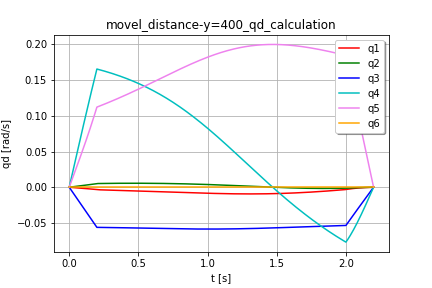
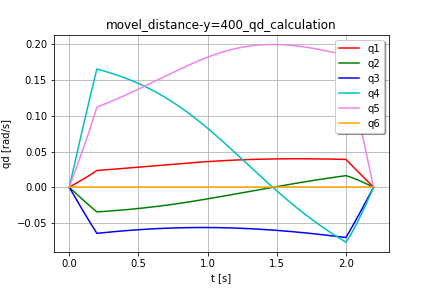
movel calculation q working, qd not

Changed region(s): [[0.1505, 0.5312, 0.8727, 0.8438]]

diff --git a/trajektorienplanung.py b/trajektorienplanung.py
@@ -328,208 +328,3 @@ def ik_pose(pose_t, dh_para, sol):
         i += 1
         
     return q_t
-
-#def ik_pose(pStart, pTarget, vmax, amax, delta_t, dh_para):
-#    
-#    [pose_t, pose_vt, pose_at, t] = traj_poseSample(pStart, pTarget, vmax, amax, delta_t)
-#    q_t = np.zeros((pose_t.shape))
-#
-#    sol = 6
-#    
-#    for t in range(pose_t.shape[0]):
-#        print(pose_t[t,:])
-#        q_t[t,:] = robo.ik_ur(dh_para, pose_t[t,:], sol)
-#        #print(q_t[t,:])
-#        
-#
-#        
-#    return q_t
-#    
-#def traj_PoseTimestamps(pStart, pTarget, vMax, aMax):
-#    
-#    #norm = sqrt(x^2 + y^2 + z^2)
-#    pDiff = math.sqrt((pStart[0] - pTarget[0])**2 + (pStart[1] - pTarget[1])**2 + (pStart[2] - pTarget[2])**2)
-#    pGrenz = (vMax * vMax) / aMax
-#    
-#    if pDiff <= pGrenz:
-#        #Dreieck: tS1 = tS2, tGes
-#        tGes = math.sqrt((4 * pDiff) / aMax)
-#        tS1 = tGes/2
-#        tS2 = tS1
-#		
-#    else:
-#        #Trapez: tS1, tS2, tGes
-#        tGes = (vMax / aMax) + (pDiff / vMax)
-#        tS1 = vMax / aMax
-#        tS2 = tGes - tS1
-#    
-#    return [tS1, tS2, tGes]
-#
-#    
-#def traj_samplePose(pStart, pTarget, vMax, aMax, tDelta):
-#    
-#    [tS1, tS2, tGes] =  traj_PoseTimestamps(pStart, pTarget, vMax, aMax)
-#    
-#    pDiff = np.sqrt((pStart[0] - pTarget[0])**2 + (pStart[1] - pTarget[1])**2 + (pStart[2] - pTarget[2])**2)
-#    
-#    direction = pTarget[0:3] - pStart[0:3]
-#    length = np.sqrt((direction[0]**2) + (direction[1]**2) + (direction[2]**2))
-#    gradient = direction / length
-#    
-#    """
-#    x = 5
-#    linEq = pStart[0:3] + x * gradient
-#    print(linEq)
-#    """
-#    
-#    t = np.arange(0, tGes + tDelta, tDelta)
-#    xyzrxryrzT = np.zeros([t.size,6])
-#    xyzrxryrzVT = np.zeros([t.size,6])
-#    xyzrxryrzAT = np.zeros([t.size,6])
-#    vT = np.zeros(t.size)
-#    aT = np.zeros(t.size)
-#    
-#    if(tS1 == tS2):
-#        print("Dreieck")
-#        i=0
-#        
-#        #Paramter Zeitpunkt tS1
-#        xyzrxryrzTs = np.zeros(3)
-#        xyzrxryrzTs[0:3] = pStart[0:3] + 0.5 * aMax * (tS1**2) * gradient
-#        vTs = aMax * tS1
-#        #print(vTS)
-#        #vTS = np.sqrt(aMax * qDiff)
-#        #print(vTS)
-#        
-#        for i in range(t.size):
-#            
-#            if(t[i] < tS1):
-#                #Dreieck steigend
-#                xyzrxryrzT[i,0:3] = pStart[0:3] + 0.5 * aMax * (tS1**2) * gradient
-#                xyzrxryrzT[i,3:6] = pStart[3:6]
-#                
-#                xyzrxryrzVT[i,0:3] = aMax * tS1 * gradient
-#                xyzrxryrzAT[i,0:3] = aMax * gradient
-#                
-#                vT[i] = aMax * t[i]
-#                aT[i] = aMax
-#            else:
-#                #Dreieck fallend
-#                xyzrxryrzT[i,0:3] = xyzrxryrzTs[0:3] + (vTs * (t[i] - tS1) - 0.5 * aMax * ((t[i] - tS1)**2)) * gradient
-#                xyzrxryrzT[i,3:6] = pStart[3:6]
-#                
-#                xyzrxryrzVT[i,0:3] = vTs - aMax * ((t[i] - tS1)) * gradient
-#                xyzrxryrzAT[i,0:3] = - aMax * gradient
-#                vT[i] = vTs - aMax * (t[i] - tS1) 
-#                aT[i] = - aMax
-#                
-#        
-#        #print(qT)
-#        
-#    else:
-#        print("Trapez")
-#        i = 0
-#        
-#        if(np.abs(pDiff) < 1e-4):
-#            #qDiff == 0
-#            
-#            for i in range(t.size):     
-#                xyzrxryrzT[i,0:3] = pStart[0:3]
-#                xyzrxryrzT[i,3:6] = pStart[3:6]
-#                vT[i] = 0
-#                aT[i] = 0
-#
-#
-#        else:
-#            #qDiff > 0
-#            xyzrxryrzTs1 = np.zeros(3)
-#            xyzrxryrzTs2 = np.zeros(3)
-#            xyzrxryrzTs1[0:3] = pStart[0:3] + 0.5 * aMax * (tS1**2) * gradient
-#            xyzrxryrzTs2[0:3] = pTarget[0:3] - (vMax**2 / (2 * aMax)) * gradient
-#        
-#            #qTS1 = qStart + vMax**2 / (2 * aMax)
-#            #qTS2 = qTS1 + (tS2 - tS1) * vMax
-#        
-#            #print(0.5 * aMax * tS1**2)
-#            #print(vMax**2 / (2 * aMax))
-#            #print(xyzrxryrzTs1[0:3])
-#            #print(xyzrxryrzTs2[0:3])
-#            
-#            for i in range(t.size):
-#                
-#                if(t[i] < tS1):
-#                    #Trapez steigend
-#                    xyzrxryrzT[i,0:3] = pStart[0:3] + (0.5 * aMax * t[i]**2) * gradient
-#                    xyzrxryrzT[i,3:6] = pStart[3:6]
-#                    
-#                    xyzrxryrzVT[i,0:3] =aMax * t[i] * gradient
-#                    xyzrxryrzAT[i,0:3] = aMax * gradient
-#                    
-#                    vT[i] = aMax * t[i]
-#                    aT[i] = aMax
-#                    
-#                elif(t[i] < tS2):
-#                    #Trapez konst
-#                    xyzrxryrzT[i,0:3] = xyzrxryrzTs1[0:3] + ((t[i] - tS1) * vMax) * gradient
-#                    xyzrxryrzT[i,3:6] = pStart[3:6]
-#                    
-#                    xyzrxryrzVT[i,0:3] = vMax * gradient
-#                    
-#                    vT[i] = vMax
-#                    aT[i] = 0
-#                    
-#                else:
-#                    #Trapez fallend
-#                    xyzrxryrzT[i,0:3] = xyzrxryrzTs2[0:3] + ((vMax + (aMax * pDiff)/ vMax) * (t[i] - tS2) * gradient  - 0.5 * aMax * (t[i]**2 - tS2**2)) * gradient
-#                    xyzrxryrzT[i,3:6] = pStart[3:6]
-#                    
-#                    xyzrxryrzVT[i,0:3] = (vMax + ((aMax * pDiff)/ vMax)) * gradient - aMax * t[i] * gradient
-#                    xyzrxryrzAT[i,0:3] = - aMax * gradient
-#                    
-#                    vT[i] = - aMax * t[i] + vMax + (aMax * pDiff) / vMax
-#                    aT[i] = - aMax
-#    
-#        
-#    return[xyzrxryrzT, xyzrxryrzVT, xyzrxryrzAT, vT, aT, t]
-#
-#def traj_sampleAxesIk(tcpT, dhParaUR3, sol):
-#    
-#    qT = np.zeros((tcpT.shape[0],6))
-#    
-#    print(tcpT.shape[0])
-#    
-#    """
-#    for i in range(8):
-#        try:
-#            qT[i,:] = rl.ik_ur(dhParaUR3, tcpT[0,:],i)
-#            print(qT[i,:])
-#        except:
-#                print("fail")
-#    """
-#    
-#    
-#    try:
-#        for i in range(tcpT.shape[0]):
-#            qT[i,:] = rl.ik_ur(dhParaUR3, tcpT[i,:],sol)
-#            
-#            #Korrektur movel_x400
-#            q4 = qT[i,3]
-#            if np.abs(q4) >= (np.pi):
-#                q4 = q4 - np.pi
-#            if np.abs(q4) >= (np.pi):
-#                q4 = q4 - np.pi
-#            qT[i,3] = q4
-#            
-#    except:
-#        #print("Fail")
-#        return 0
-#        
-#    
-#    #qIK = rl.ik_ur(dhParaUR3, rotvecQ, sol)
-#    #print("sol:", sol, qIK)
-#    
-#    return qT
-    
-    
-
-    

diff --git a/trajektorienplanung_test_pose.py b/trajektorienplanung_test_pose.py
@@ -14,7 +14,7 @@ import numpy as np
 Save plots to
 """
 save_to ='C:/Users/mkris/Documents/Master/3. Semester/Robotik/code/trajektorien_plots/'
-name = 'movel_distance-y=400'
+name = 'movel_distance-y=400_singularity'
 
 # non singularity
 #pStart = np.array([-0.250,-0.200, 0.300,2.2214,2.2214,0])
@@ -34,11 +34,11 @@ name = 'movel_distance-y=400'
 
 """ neue Werte Fixing"""
 """non singu"""
-pStart = np.array([0.300,-0.200,0.350,2,-2,2])
-pTarget = np.array([0.300,0.200,0.350,2,-2,2])
+#pStart = np.array([0.300,-0.200,0.350,2,-2,2])
+#pTarget = np.array([0.300,0.200,0.350,2,-2,2])
 """singularity"""
-#pStart = np.array([0.200,-0.200,0.350,2,-2,2])
-#pTarget = np.array([0.200,0.200,0.350,2,-2,2])
+pStart = np.array([0.200,-0.200,0.350,2,-2,2])
+pTarget = np.array([0.200,0.200,0.350,2,-2,2])
 
 # florens
 #pStart = np.array([300,-200,400,2.4186,-2.4185,2.4185])
@@ -50,8 +50,8 @@ pTarget = np.array([0.300,0.200,0.350,2,-2,2])
 #pTarget = np.array([0.250, 0.100, 0.380,0.6453,1.4727,0.6453])
 
 
-#dh_para = np.array([(1.570796327, 0, 151.9), (0, -243.65, 0), (0, -213.25, 0), (1.570796327, 0, 112.35), (-1.570796327, 0, 85.35), (0, 0, 81.9)])
-dh_para = np.array([(1.570796327, 0, 0.1519), (0, -0.24365, 0), (0, -0.21325, 0), (1.570796327, 0, 0.11235), (-1.570796327, 0, 0.08535), (0, 0, 0.0819)])
+dh_para = np.array([(1.570796327, 0, 151.9), (0, -243.65, 0), (0, -213.25, 0), (1.570796327, 0, 112.35), (-1.570796327, 0, 85.35), (0, 0, 81.9)])
+#dh_para = np.array([(1.570796327, 0, 0.1519), (0, -0.24365, 0), (0, -0.21325, 0), (1.570796327, 0, 0.11235), (-1.570796327, 0, 0.08535), (0, 0, 0.0819)])
 
 amax = 1.0
 vmax = 0.2

diff --git a/jacobimatrix.py b/jacobimatrix.py
@@ -6,7 +6,7 @@ import libary_1 as robo
 importlib.reload(robo)
 
 def jacobi_ur(dh_para, q):
-    J = np.zeros([q.size, q.size])
+    J = np.zeros((q.size, q.size))
     T = np.eye(4)
     T_0_i = np.eye(4)
     
@@ -15,34 +15,38 @@ def jacobi_ur(dh_para, q):
     
     i = 0
     for i in range(6):
-        T = robo.dh(dh_para[i,0], dh_para[i,1], dh_para[i,2], q[i])  ####
-        T_0_i = np.dot(T_0_i, T)
+        
         z_i = T_0_i[0:3, 2]
         p_i = T_0_i[0:3, 3]
+        
+        T = robo.dh(dh_para[i,0], dh_para[i,1], dh_para[i,2], q[i]) 
+        T_0_i = np.dot(T_0_i, T)
+        
         r = p - p_i
+        
         J[0:3, i] = np.cross(z_i, r)
         J[3:6, i] = z_i
         
     return J
 
 """
-tcp Geschwindigkeit --> movel
+tcp Geschwindigkeit über t = J_q_t * q_t
 """ 
 
-def v_tcp(qT, vT, dh_para):
-    v_tcp = np.zeros((qT.shape[0],6))
+def v_tcp(q_t, v_t, dh_para):
+    v_tcp = np.zeros((q_t.shape[0],6))
     
-    for t in range(qT.shape[0]):
-        J_t = jacobi_ur(dh_para, qT[t])
-        v_tcp[t] = np.dot(J_t, vT[t])
+    for t in range(q_t.shape[0]):
+        J_t = jacobi_ur(dh_para, q_t[t])
+        v_tcp[t] = np.dot(J_t, v_t[t])
     return v_tcp
 
 """
-Gelenkgeschwindigkeit --> movej
+Gelenkwinkelgeschwindigkeit --> movej
 """
 def vt(qT, pose_vt, dh_para):
     print(qT)
-    v_t = np.zeros((qT.shape))
+    v_t = np.zeros(qT.shape)
     
     for t in range(qT.shape[0]):
         J_t = jacobi_ur(dh_para, qT[t])
